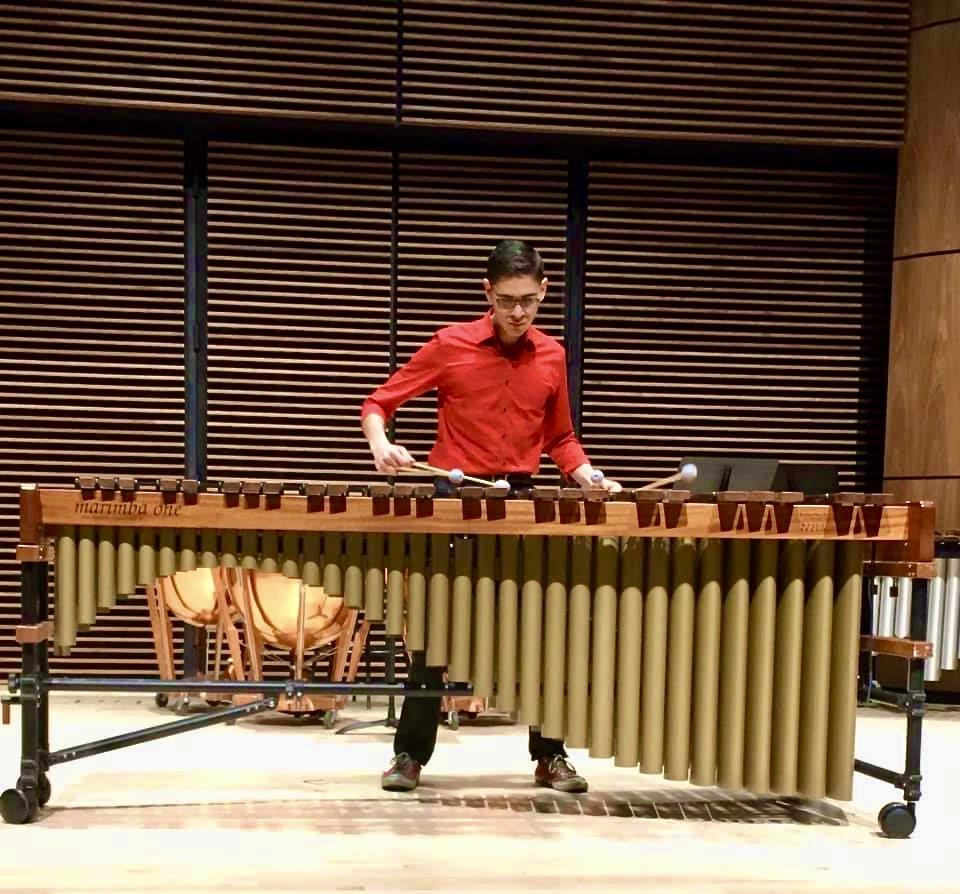
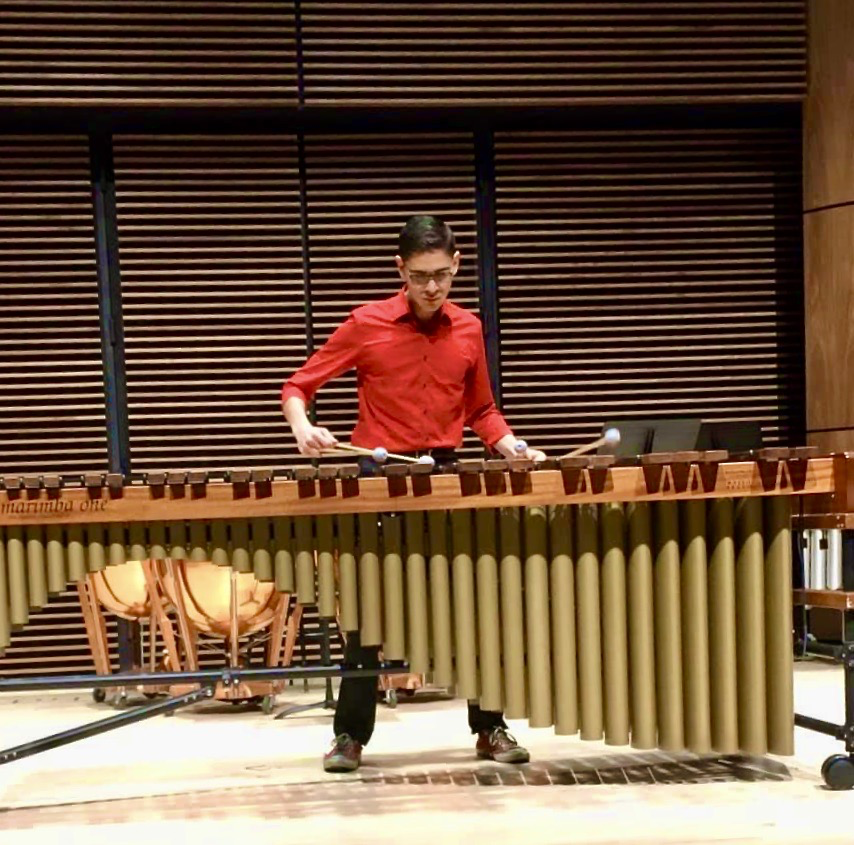
added 3 images after resizing

diff --git a/Milestone3/indexmain.html b/Milestone3/indexmain.html
@@ -42,7 +42,7 @@
 
         </div>
         <div class="col">
-            <img src="images/kai-entertain.png" height="797" width="941" alt="Entertaining"/>
+            <img src="images/kai-entertain.png" height="897" width="1041" alt="Entertaining"/>
 
         </div>
     </div>
@@ -68,8 +68,9 @@
 
         <div class="card-group">
             <div class="card">
-                <img src="..." class="card-img-top" alt="...">
+                <img src="..." class="card-img-top" alt="..."><img src="images/kai-mallets.png" height="671" width="634"/>
                 <div class="card-body">
+
                     <h5 class="card-title">Card title</h5>
                     <p class="card-text">This is a wider card with supporting text below as a natural lead-in to additional content. This content is a little bit longer.</p>
                 </div>
@@ -78,7 +79,8 @@
                 </div>
             </div>
             <div class="card">
-                <img src="..." class="card-img-top" alt="...">
+                <img src="..." class="card-img-top" alt="..."><img src="images/kai-marimba.png" height="671"
+                                                                   width="634"/>
                 <div class="card-body">
                     <h5 class="card-title">Card title</h5>
                     <p class="card-text">This card has supporting text below as a natural lead-in to additional content.</p>
@@ -88,7 +90,7 @@
                 </div>
             </div>
             <div class="card">
-                <img src="..." class="card-img-top" alt="...">
+                <img src="..." class="card-img-top" alt="..."><img src="images/kai-sset.png" height="671" width="634"/>
                 <div class="card-body">
                     <h5 class="card-title">Card title</h5>
                     <p class="card-text">This is a wider card with supporting text below as a natural lead-in to additional content. This card has even longer content than the first to show that equal height action.</p>
